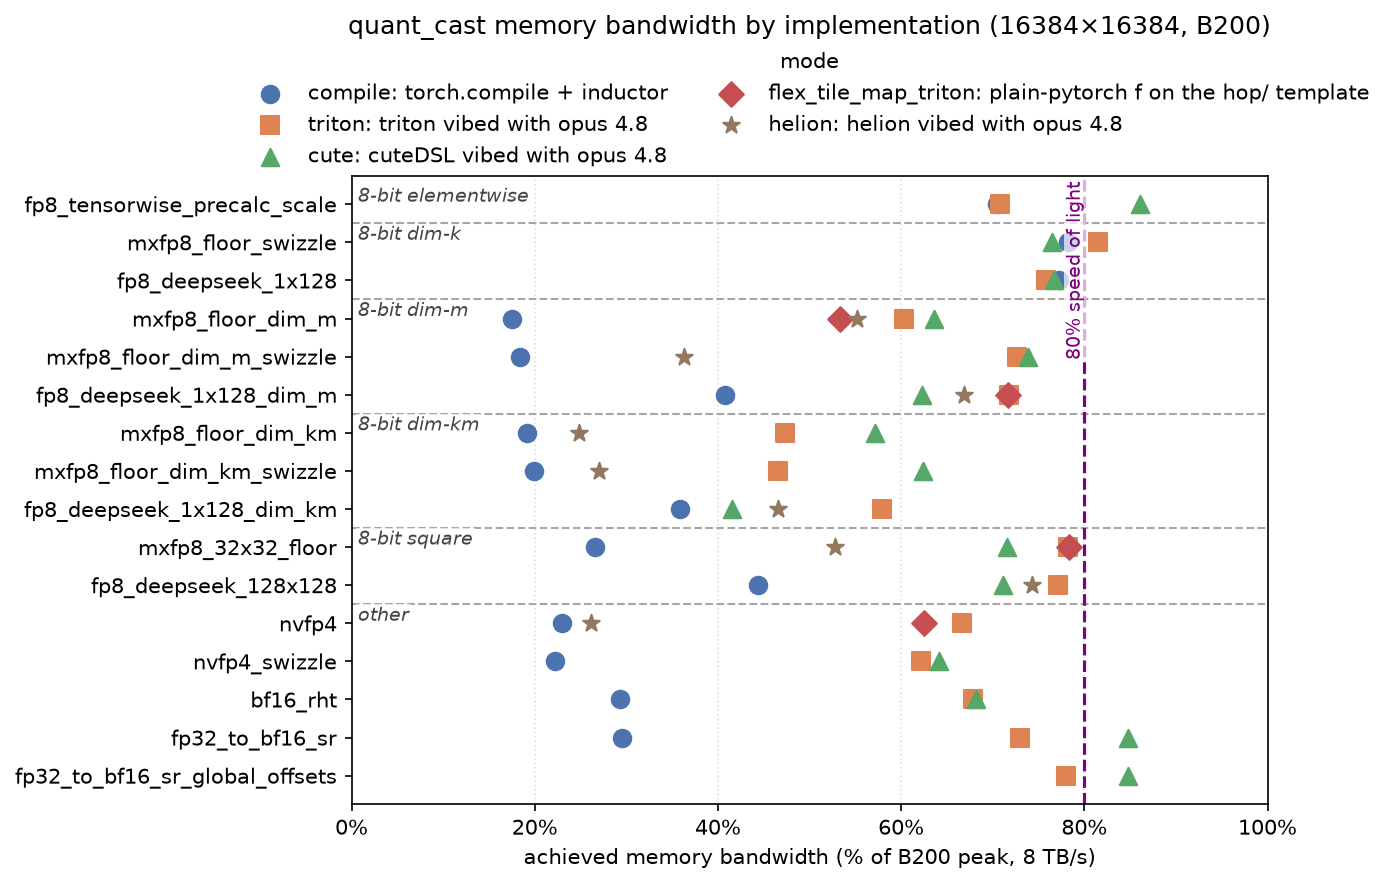
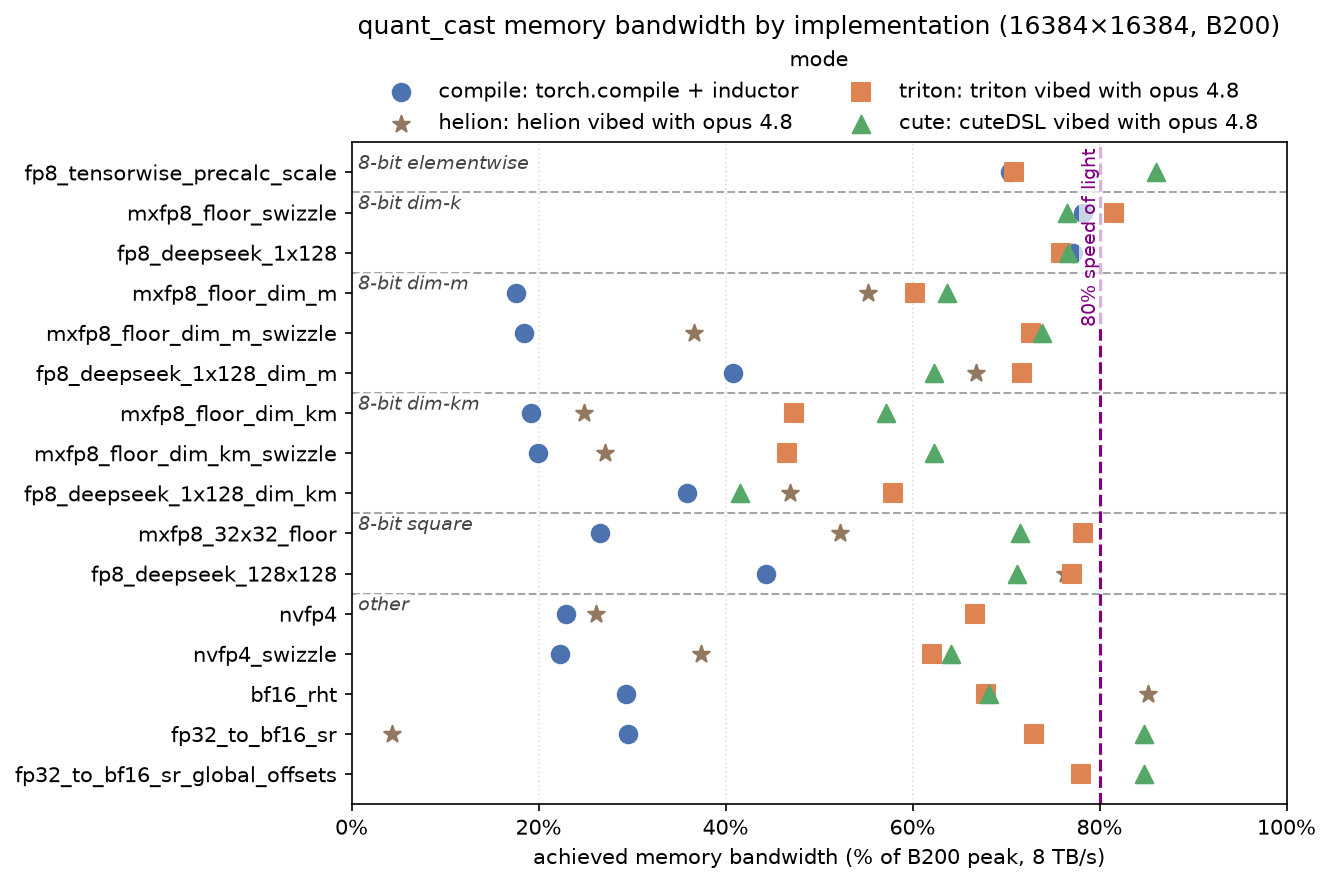
even more helion
Summary:

Test Plan:

diff --git a/quant_cast_bench/quant_cast_helion/recipes.py b/quant_cast_bench/quant_cast_helion/recipes.py
@@ -20,13 +20,16 @@ from quant_cast_bench.quant_cast_gold.recipes import (
     Deepseek1x128DimKmGold,
     Deepseek1x128DimMGold,
     Deepseek128x128Gold,
+    HadamardRht,
     Mxfp832x32FloorGold,
     Mxfp8FloorDimKmGold,
     Mxfp8FloorDimKmSwizzleGold,
     Mxfp8FloorDimMGold,
     Mxfp8FloorDimMSwizzleGold,
     Nvfp4GsGold,
+    Nvfp4GsSwizzleGold,
     QuantCastSingleKernelGold,
+    SrF32ToBf16,
 )
 
 # fp8_e4m3fn representable max; the deepseek scale is amax / fp8_max (see the gold recipe).
@@ -736,6 +739,191 @@ def nvfp4_gs_helion(x, outer_scale, **kwargs):
 NVFP4 = QuantCastHelionRecipe.from_gold(Nvfp4GsGold, helion_fn=nvfp4_gs_helion)
 
 
+# ---------------------------------------------------------------------------
+# nvfp4 (two-level) with the e4m3 INNER scale in the NVIDIA 32x4x4 SWIZZLED block grid. Same two-level
+# cast + fp4-packed qdata as `_nvfp4_gs_kernel` (qdata is byte-identical) -- only the inner scale
+# layout differs: it's scattered straight into the swizzled block grid in-kernel instead of stored
+# plain (M, N//16). Mirrors `nvfp4_gs_swizzle_f` (= nvfp4_gs_f then _to_blocked_4d on the inner scale).
+#
+# Like the mxfp8 swizzle kernels, to make the swizzled store a plain index we tile over the
+# block-count dims [nrb, ncb] and view x with both the M-rows and the 16-block index fully split:
+#   M-rows:   m = 128*RB + 32*a + b       (RB in [0,nrb), a in [0,4), b in [0,32))
+#   N-cols:   n = 64*CB + 16*c + 2*j + k  (CB in [0,ncb), c in [0,4)); each 16-block is (j=8, k=2)
+# so the 16-block index is w = n//16 = 4*CB + c and x_blk is 7D [RB,a,b,CB,c,j,k]. The nvfp4 cast runs
+# per 16-block (reduce (j,k)); the fp4 pack is the same hardware cvt (even k=0 -> low nibble, odd k=1
+# -> high). The swizzle of the inner scale (M, N//16) [m, w] is
+#   blocked[m//128, w//4, m%32, ((m%128)//32)*4 + w%4] = inner[m, w],
+# a pure permute of the reduced inner scale [RB,a,b,CB,c] -> blocked [RB,CB,b,a,c] (the (4,4)->16 merge
+# is a free reshape in the wrapper). block_sizes=[1, 1] pins one 128x64 x-block per program (untiled
+# register dims 4*32*4*8*2 = 8192).
+#
+# Autotuning does NOT work here (inferred, not tried), for two independent reasons:
+#   1. inline-asm autotuner crash: like `_nvfp4_gs_kernel`, this uses `hl.inline_asm_elementwise`
+#      (the _NVFP4_CVT_ASM cvt), and autotune_effort="full" crashes on that HOP -- see the note on the
+#      non-swizzle nvfp4 kernel above (gist linked there). That's why nvfp4 is pinned to "none".
+#   2. swizzle tile-shape overflow: even without the asm crash, the tile-over-block-count structure
+#      means any non-tiny block size makes the register tile block_nrb*block_ncb*8192, which overflows
+#      triton's 1,048,576 per-tensor cap at 16384x16384 (same failure confirmed empirically for
+#      `_mxfp8_floor_dim_km_swizzle_kernel`). The viable search space collapses to ~[1, 1] anyway.
+# ---------------------------------------------------------------------------
+@helion.kernel(
+    config=helion.Config(block_sizes=[1, 1], num_warps=4, num_stages=1),
+    static_shapes=True,
+    ignore_warnings=[helion.exc.TensorOperationInWrapper],
+)
+def _nvfp4_gs_swizzle_kernel(
+    x: torch.Tensor,  # (M, N) bf16 input
+    outer_scale: torch.Tensor,  # (1,) f32 per-tensor outer scale (global amax, host-computed)
+    qdata: torch.Tensor,  # (M, N // 2) uint8, fp4-packed (two e2m1 per byte), mutated in place
+    scale5: torch.Tensor,  # (nrb, ncb, 32, 4, 4) e4m3 inner scale, swizzled, pre (4,4)->16
+) -> None:
+    M, N = x.shape
+    nrb = M // 128  # M 128-row blocks
+    ncb = N // 64   # N 64-col blocks = 4 inner-16-blocks
+    xv = x.view(nrb, 4, 32, ncb, 4, 8, 2)  # [RB, a, b, CB, c, j, k]
+    qv = qdata.view(nrb, 4, 32, ncb, 4, 8)  # (M, N//2) = [RB, a, b, CB, c, j] (8 packed bytes / 16-blk)
+    for tile_rb, tile_cb in hl.tile([nrb, ncb]):
+        outer = hl.load(outer_scale, [0])
+        x_blk = xv[tile_rb, :, :, tile_cb, :, :, :].to(torch.float32)  # (trb,4,32,tcb,4,8,2)
+        amax = torch.amax(torch.amax(torch.abs(x_blk), dim=6), dim=5)  # [RB,a,b,CB,c] over the 16
+        # inner e4m3 block scale relative to the outer scale; round-trip through e4m3 BEFORE using it
+        # in the reciprocal (matches the gold / the non-swizzle kernel -- load-bearing for bit-exact).
+        inner_e4m3 = torch.clamp(
+            (amax / _F4_E2M1_MAX) / outer, _E4M3_EPS, _F8E4M3_MAX
+        ).to(torch.float8_e4m3fn)
+        recip = (1.0 / outer) / inner_e4m3.to(torch.float32)  # [RB,a,b,CB,c]
+        data_scaled = torch.clamp(
+            x_blk * recip[:, :, :, :, :, None, None], -_F4_E2M1_MAX, _F4_E2M1_MAX
+        )  # [RB,a,b,CB,c,j,k]
+        # split the pack pair (k) without strided indexing: mask-and-reduce the size-2 axis.
+        w_odd = hl.arange(2).to(torch.float32)  # [0.0, 1.0]
+        even = torch.sum(data_scaled * (1.0 - w_odd), dim=6)  # [RB,a,b,CB,c,j] -> low nibble ($2)
+        odd = torch.sum(data_scaled * w_odd, dim=6)  # [RB,a,b,CB,c,j] -> high nibble ($1)
+        packed_u16 = hl.inline_asm_elementwise(
+            _NVFP4_CVT_ASM, "=h,r,r", [odd, even],
+            dtype=torch.uint16, is_pure=True, pack=1,
+        )
+        qv[tile_rb, :, :, tile_cb, :, :] = packed_u16.to(torch.uint8)
+        # swizzled inner scale: [RB,a,b,CB,c] -> blocked [RB,CB,b,a,c]
+        scale5[tile_rb, tile_cb, :, :, :] = inner_e4m3.permute(0, 3, 2, 1, 4)
+
+
+def nvfp4_gs_swizzle_helion(x, outer_scale, **kwargs):
+    """nvfp4 two-level cast in Helion with the e4m3 inner scale in the NVIDIA 32x4x4 swizzled block
+    grid: per-16 e4m3 inner scale (relative to the host-computed per-tensor `outer_scale` aux),
+    fp4-packed qdata (M, N//2) + the inner scale scattered directly into the swizzled block grid
+    (nrb, ncb, 32, 16). Matches the gold `nvfp4_gs_swizzle_f`. The (4,4)->16 merge is a free contiguous
+    reshape here. `**kwargs` are accepted and ignored."""
+    assert x.is_contiguous() and x.dim() == 2
+    M, N = x.shape
+    assert M % 128 == 0 and N % 64 == 0, (
+        f"nvfp4 swizzle requires M divisible by 128 and N by 64, got {(M, N)}"
+    )
+    nrb, ncb = M // 128, N // 64
+    qdata = torch.empty((M, N // 2), dtype=torch.uint8, device=x.device)
+    scale5 = torch.empty((nrb, ncb, 32, 4, 4), dtype=torch.float8_e4m3fn, device=x.device)
+    _nvfp4_gs_swizzle_kernel(x, outer_scale.reshape(1).to(torch.float32), qdata, scale5)
+    inner_swizzled = scale5.reshape(nrb, ncb, 32, 16)
+    return qdata.view(torch.float4_e2m1fn_x2), inner_swizzled
+
+
+NVFP4_SWIZZLE = QuantCastHelionRecipe.from_gold(
+    Nvfp4GsSwizzleGold, helion_fn=nvfp4_gs_swizzle_helion
+)
+
+
+# ---------------------------------------------------------------------------
+# bf16 16x16 randomized Hadamard transform (RHT): bf16 in, bf16 out, NO scale (a 1-tuple output).
+# Mirrors hadamard_rht_f -- out = (x.reshape(..., 16) @ rht).reshape(...). The RHT matrix is a (16,16)
+# bf16 aux input (built on the host). Like the triton kernel, flatten the whole tensor to (n_groups,
+# 16) groups of 16 and give each program a (BLOCK_G, 16) tile -> a batch of (BLOCK_G, 16) @ (16, 16)
+# matmuls. Compute in fp32 (upcasting the bf16 inputs is exact, so an fp32 matmul reproduces torch's
+# bf16 gemm with fp32 accumulation) then cast back to bf16. It's a bandwidth-bound elementwise-shaped
+# op (read N, write N; the K=16 dot is tiny), but autotune_effort="none"'s default config picks a tiny
+# block (block_sizes=[32] -> 512 elems/program) and only reaches ~40% peak. A swept block matters here:
+# pin block_sizes=[512] (matching the triton kernel's BLOCK_G=512), num_warps=8 -> ~64% peak. Larger
+# blocks (>=1024 groups) overflow tensor memory since the (bg,16)@(16,16) matmul lowers to tl.dot/tmem.
+# ---------------------------------------------------------------------------
+@helion.kernel(
+    config=helion.Config(atomic_indexing=[], block_sizes=[128], indexing=['pointer', 'pointer', 'pointer'], load_eviction_policies=['first', ''], num_stages=3, num_warps=2, pid_type='flat', range_flattens=[None], range_multi_buffers=[None], range_num_stages=[], range_unroll_factors=[0], range_warp_specializes=[None]), 
+    static_shapes=True,
+    ignore_warnings=[helion.exc.TensorOperationInWrapper],
+)
+def _rht_kernel(
+    x: torch.Tensor,  # (n_groups, 16) bf16 input (the (M, N) tensor flattened to 16-element groups)
+    rht: torch.Tensor,  # (16, 16) bf16 RHT matrix
+    out: torch.Tensor,  # (n_groups, 16) bf16 output, mutated in place
+) -> None:
+    n_groups, _ = x.shape
+    for tile_g in hl.tile(n_groups):
+        x_blk = x[tile_g, :].to(torch.float32)  # (bg, 16)
+        r = rht[:, :].to(torch.float32)  # (16, 16)
+        out[tile_g, :] = torch.matmul(x_blk, r).to(torch.bfloat16)  # (bg, 16), fp32 accum -> bf16
+
+
+def rht_helion(x, rht, **kwargs):
+    """16x16 randomized Hadamard transform along the last dim in Helion (mirrors `hadamard_rht_f`):
+    bf16 in, bf16 out, no scale. `rht` is the (16,16) RHT matrix (host-built aux). Returns a 1-tuple
+    `(out,)`. `**kwargs` are accepted and ignored (the kernel owns its tiling)."""
+    assert x.is_contiguous() and x.dim() == 2
+    M, N = x.shape
+    assert N % 16 == 0, f"bf16_rht requires N divisible by 16, got N={N}"
+    n_groups = (M * N) // 16
+    out = torch.empty_like(x)
+    _rht_kernel(x.view(n_groups, 16), rht.contiguous(), out.view(n_groups, 16))
+    return (out,)
+
+
+BF16_RHT = QuantCastHelionRecipe.from_gold(HadamardRht, helion_fn=rht_helion)
+
+
+# ---------------------------------------------------------------------------
+# Stochastic-rounding fp32 -> bf16 (mirrors sr_bf16_f). SR add-then-truncate: dither the 16 mantissa
+# bits fp32->bf16 drops with a uniform 16-bit value, then mask them off. bf16 shares fp32's exponent
+# so there's no rebias/scale/packing -- just the dither. Randomness comes from Helion's own
+# counter-based Philox (`hl.rand`, offsets derived from the flat tile index), so the draws don't
+# match the torch reference bit-for-bit -- only the SR *property* (unbiased, lands on the two
+# bracketing bf16 grid points) is well-defined, and that's what the test's correctness_fn checks for
+# the *_sr recipes. Elementwise + bandwidth-bound (read fp32, write bf16); autotune_effort="none" ->
+# default config, no search (fast to iterate).
+# ---------------------------------------------------------------------------
+@helion.kernel(
+    config=helion.Config(atomic_indexing=[], block_sizes=[2048], indexing=['tensor_descriptor', 'tensor_descriptor'], load_eviction_policies=[''], maxnreg=128, num_sm_multiplier=8, num_stages=2, num_warps=16, pid_type='persistent_interleaved', range_flattens=[False], range_multi_buffers=[None], range_unroll_factors=[0], range_warp_specializes=[True]), 
+    static_shapes=True,
+    ignore_warnings=[helion.exc.TensorOperationInWrapper],
+)
+def _sr_bf16_kernel(
+    x: torch.Tensor,  # (n,) fp32 input, flattened
+    out: torch.Tensor,  # (n,) bf16 output, mutated in place
+    seed: int,  # Philox seed (first 32 bits of the key)
+) -> None:
+    n, = x.shape
+    for tile in hl.tile(n):
+        xf = x[tile]
+        u = hl.rand([tile], seed=seed)  # uniform [0, 1) per element, distinct offset per flat index
+        rand16 = (u * 65536.0).to(torch.int32)  # uniform 16-bit dither in [0, 2**16)
+        xi = xf.view(torch.int32) + rand16  # bitcast fp32->int32, add the dither...
+        xi = xi & -65536  # ...then truncate the low 16 mantissa bits (-65536 == 0xFFFF0000)
+        out[tile] = xi.view(torch.float32).to(torch.bfloat16)  # exact: low 16 bits are zero
+
+
+def sr_bf16_helion(x, key, **kwargs):
+    """fp32 -> bf16 stochastic rounding in Helion (mirrors `sr_bf16_f`). `key` is a torch Philox key
+    tensor; its first 32-bit word seeds `hl.rand`. SR is unbiased -- a value between two bf16 grid
+    points rounds up with probability (x-lo)/(hi-lo). Returns a 1-tuple `(out,)`. `**kwargs` accepted
+    and ignored (the kernel owns its tiling)."""
+    assert x.dtype == torch.float32, f"SR bf16 expects fp32 input, got {x.dtype}"
+    assert x.is_contiguous()
+    n = x.numel()
+    seed = int(key.reshape(-1)[0].item()) & 0x7FFFFFFF  # first word of the key as a Philox seed
+    out = torch.empty_like(x, dtype=torch.bfloat16)
+    _sr_bf16_kernel(x.view(n), out.view(n), seed)
+    return (out,)
+
+
+FP32_TO_BF16_SR = QuantCastHelionRecipe.from_gold(SrF32ToBf16, helion_fn=sr_bf16_helion)
+
+
 # Order mirrors quant_cast_gold.ALL_RECIPES / quant_cast_triton.ALL_RECIPES (only the recipes with
 # a Helion impl are listed; more will be added as they're ported).
 ALL_RECIPES = [
@@ -748,4 +936,7 @@ ALL_RECIPES = [
     ("mxfp8_32x32_floor", MXFP8_32X32_FLOOR),
     ("fp8_deepseek_128x128", FP8_DEEPSEEK_128X128),
     ("nvfp4", NVFP4),
+    ("nvfp4_swizzle", NVFP4_SWIZZLE),
+    ("bf16_rht", BF16_RHT),
+    ("fp32_to_bf16_sr", FP32_TO_BF16_SR),
 ]

diff --git a/benchmarks/plot_bench.py b/benchmarks/plot_bench.py
@@ -26,8 +26,10 @@ matplotlib.use("Agg")  # headless: write a PNG, never open a window
 import matplotlib.pyplot as plt  # noqa: E402
 from matplotlib.ticker import PercentFormatter  # noqa: E402
 
-# default series order (also the legend order)
-_MODES = ["compile", "triton", "cute", "flex_tile_map_triton", "helion"]
+# default series order (also the legend order). flex_tile_map_triton is kept in the CSV and the
+# _COLORS/_MARKERS/_LABELS maps below (so `--modes ...,flex_tile_map_triton` still works) but is
+# omitted from the main chart.
+_MODES = ["compile", "helion", "triton", "cute"]
 _COLORS = {
     "compile": "#4C72B0",
     "triton": "#DD8452",

diff --git a/benchmarks/README.md b/benchmarks/README.md
@@ -380,16 +380,19 @@ baseline, not a fully-tuned comparison to the compile/triton/cute numbers above.
 shape: (16384, 16384)  mode: helion
 recipe                        gpu_time_ms    gbps    pct_peak  perf_description
 --------------------------  -------------  ------  ----------  --------------------------------------------------------
-relu (baseline)                    0.1792  5992.8       74.9%
+relu (baseline)                    0.1792  5993.4       74.9%
 fp8_deepseek_1x128_dim_m           0.1522  5344.8       66.8%  (128,1) block, t-contig
-mxfp8_floor_dim_m                  0.1843  4415.3       55.2%  (32,1) block, t-contig
-mxfp8_floor_dim_m_swizzle          0.2804  2902.1       36.3%  (32,1) block, t-contig, swizzle
-mxfp8_floor_dim_km                 0.5495  1984.6       24.8%  (1,32) dim-k + (32,1) dim-m, one pass, t-contig
-mxfp8_floor_dim_km_swizzle         0.5046    2161       27.0%  (1,32) dim-k + (32,1) dim-m, one pass, t-contig, swizzle
-fp8_deepseek_1x128_dim_km           0.293  3721.3       46.5%  (1,128) dim-k + (128,1) dim-m, one pass, t-contig
-mxfp8_32x32_floor                  0.1909  4219.6       52.8%  (32,32) block
-fp8_deepseek_128x128               0.1355  5944.9       74.3%  (128,128) block
-nvfp4                              0.3283    2095       26.2%  (1,16) block, fp4 qdata, no swizzle
+mxfp8_floor_dim_m                  0.1842  4417.7       55.2%  (32,1) block, t-contig
+mxfp8_floor_dim_m_swizzle          0.2773  2933.9       36.7%  (32,1) block, t-contig, swizzle
+mxfp8_floor_dim_km                  0.548  1989.9       24.9%  (1,32) dim-k + (32,1) dim-m, one pass, t-contig
+mxfp8_floor_dim_km_swizzle         0.5026  2169.8       27.1%  (1,32) dim-k + (32,1) dim-m, one pass, t-contig, swizzle
+fp8_deepseek_1x128_dim_km          0.2908  3750.5       46.9%  (1,128) dim-k + (128,1) dim-m, one pass, t-contig
+mxfp8_32x32_floor                  0.1927  4179.6       52.2%  (32,32) block
+fp8_deepseek_128x128               0.1319  6103.9       76.3%  (128,128) block
+nvfp4                              0.3288    2092       26.1%  (1,16) block, fp4 qdata, no swizzle
+nvfp4_swizzle                        0.23  2990.4       37.4%  (1,16) block, fp4 qdata, swizzle
+bf16_rht                           0.1575  6818.8       85.2%  elementwise RHT
+fp32_to_bf16_sr                    4.6893   343.5        4.3%  elementwise SR, hl.rand (tile-local)
 ```
 
 * `fp8_deepseek_1x128_dim_m` (66.8%, i.e. ~89% of this run's relu ceiling) and `mxfp8_floor_dim_m`
@@ -400,7 +403,7 @@ nvfp4                              0.3283    2095       26.2%  (1,16) block, fp4
   128-row reduction persistent via `reduction_loops=[None]` so `x` is loaded once, not 3×; the
   autotuner's timing was too noisy to trust here). They land in the same ballpark as their bespoke
   `--mode triton` counterparts once the depressed baseline is accounted for.
-* `mxfp8_floor_dim_m_swizzle` (36.3%) is `mxfp8_floor_dim_m` with the e8m0 scale scattered **directly
+* `mxfp8_floor_dim_m_swizzle` (36.7%) is `mxfp8_floor_dim_m` with the e8m0 scale scattered **directly
   into the NVIDIA 32×4×4 swizzled block grid in-kernel** (not stored plain then swizzled in a
   wrapper). To make the swizzled store a plain index, it tiles over the *block-count* dims so the
   tile indices are the block ordinals, which forces the within-block 32/128 axes into 5D register
@@ -409,7 +412,7 @@ nvfp4                              0.3283    2095       26.2%  (1,16) block, fp4
   pinned to `block_sizes=[1, 1]` (one 128×128 block/program). That correctness-first tile is why the
   bandwidth trails the plain dim-M kernel and the triton/cute swizzle versions (72.7% / 73.9%);
   raising the block sizes is the perf follow-up.
-* `mxfp8_floor_dim_km` (24.8%) does **both** mxfp8-floor reductions in one pass over `x` and emits four
+* `mxfp8_floor_dim_km` (24.9%) does **both** mxfp8-floor reductions in one pass over `x` and emits four
   outputs — the dim-K pair `(M, N)` / `(M, N//32)` in the natural frame *and* the dim-M pair `(N, M)` /
   `(N, M//32)` transposed. It reuses the 32×32 block-grid view `(rb, 32, cb, 32)` and takes both
   reductions off the one loaded block (reduce the trailing 32 for dim-K, the leading 32 for dim-M),
@@ -418,36 +421,60 @@ nvfp4                              0.3283    2095       26.2%  (1,16) block, fp4
   compile at 512² in 10 min and would overflow the 1,048,576 per-tensor cap at this shape. The low
   bandwidth is expected — it's one read of `x` but ~2× the output writes (four tensors) on the
   correctness-first tile.
-* `mxfp8_floor_dim_km_swizzle` (27.0%) is `mxfp8_floor_dim_km` with **both** e8m0 scales scattered
+* `mxfp8_floor_dim_km_swizzle` (27.1%) is `mxfp8_floor_dim_km` with **both** e8m0 scales scattered
   directly into the NVIDIA 32×4×4 swizzled block grid in-kernel (qdata is byte-identical). To make
   both swizzled stores plain 5D indices it tiles over the 128×128 block grid and views `x` with both
   within-128 axes fully split (M-rows into `(c4, w32)`, N-cols into `(a, b)`), so one 6D loaded block
   feeds both reductions and both scale stores via pure permutes — no in-kernel reshape across a tiled
   axis (unlike the dim-M-only swizzle kernel). Same `block_sizes=[1, 1]` pin / autotune-none overflow
   as the other dim-km kernels. It's actually a hair *faster* than the plain `mxfp8_floor_dim_km`
-  (24.8%), consistent with the swizzled scale store beating the plain strided one seen elsewhere.
-* `fp8_deepseek_1x128_dim_km` (46.5%) is the deepseek analog — same one-pass four-output structure as
+  (24.9%), consistent with the swizzled scale store beating the plain strided one seen elsewhere.
+* `fp8_deepseek_1x128_dim_km` (46.9%) is the deepseek analog — same one-pass four-output structure as
   `mxfp8_floor_dim_km` but 128×128 blocks with an fp32 `amax/448` reciprocal scale instead of e8m0
-  bit-math. It's ~2× the bandwidth of the mxfp8 dim-km (24.8%) because 128-blocks write 4× fewer scale
+  bit-math. It's ~2× the bandwidth of the mxfp8 dim-km (24.9%) because 128-blocks write 4× fewer scale
   values than 32-blocks (and in larger contiguous chunks). Pinned `block_sizes=[1, 1]` for the same
   reason as the others.
-* `mxfp8_32x32_floor` (52.8%) is deliberately pinned to a **tiny `block_sizes=[1, 1]`** (one 32×32
+* `mxfp8_32x32_floor` (52.2%) is deliberately pinned to a **tiny `block_sizes=[1, 1]`** (one 32×32
   block per program). The kernel views `x` as 4D `(rb, 32, cb, 32)` and tiles only `[rb, cb]`, so the
   block sizes multiply the untiled 32×32 register tile — the default heuristic's `[16, 16]`
   materializes a 1 MB fp32 tile per program that takes ptxas ~18 s to compile cold. `[1, 1]` keeps it
   at 4 KB → ~0.5 s cold compile. That fast-debug tile is the reason the bandwidth is low here (raise
   `block_sizes` or switch to `autotune_effort="full"` if this kernel's perf becomes the point).
-* `fp8_deepseek_128x128` (74.3%) is the deepseek square-block analog of `mxfp8_32x32_floor` — same
+* `fp8_deepseek_128x128` (76.3%) is the deepseek square-block analog of `mxfp8_32x32_floor` — same
   in-place `(rb, 128, cb, 128)` block view but 128×128 blocks with an fp32 `amax/448` reciprocal scale.
-  It lands right at the relu ceiling (74.9%): 128×128 blocks write the fewest scale values of any recipe
-  here (one fp32 per 16384 elements) and there's no transpose, so it's essentially pinned to the
-  input-read + qdata-write bandwidth floor even on the same correctness-first `block_sizes=[1, 1]`.
-* `nvfp4` (26.2%) is the two-level cast (per-tensor outer scale × per-16-block e4m3 inner scale,
+  It sits right at the relu ceiling (74.9%, and edges past it run-to-run): 128×128 blocks write the
+  fewest scale values of any recipe here (one fp32 per 16384 elements) and there's no transpose, so
+  it's essentially pinned to the input-read + qdata-write bandwidth floor even on the same
+  correctness-first `block_sizes=[1, 1]`.
+* `nvfp4` (26.1%) is the two-level cast (per-tensor outer scale × per-16-block e4m3 inner scale,
   fp4-packed qdata) on Helion's default `autotune_effort="none"` config. The fp4 encode+pack uses the
   **hardware `cvt.rn.satfinite.e2m1x2.f32` PTX**, emitted via `hl.inline_asm_elementwise` (Helion's
   own inline-asm HOP — the gold's Inductor `inline_asm_...` is unreachable from a Helion kernel, and
   the native `.to(torch.float4_e2m1fn_x2)` cast mis-lowers). Bit-exact vs gold but un-tuned; the low
   bandwidth is the default config plus the extra even/odd split work, not the encode itself.
+* `nvfp4_swizzle` (37.4%) is `nvfp4` with the per-16 e4m3 inner scale scattered **directly into the
+  NVIDIA 32×4×4 swizzled block grid in-kernel** (qdata byte-identical). Like the mxfp8 swizzle kernels
+  it tiles over the block-count dims and views `x` with the within-128/64 axes fully split (a 7D block),
+  so the fp4 encode, the even/odd pack, and the swizzled scale store are all pure permutes on one loaded
+  block. It's ~1.4× the plain `nvfp4` (26.1%) — the swizzled scale store beats the plain strided one,
+  same effect seen in the mxfp8 dim-km pair. Pinned `block_sizes=[1, 1]`; `autotune_effort="none"` is
+  *not* usable here for two reasons (the inline-asm autotuner crash `nvfp4` also hits, and the swizzle
+  tile-shape overflow the other swizzle kernels hit).
+* `bf16_rht` (85.2%, i.e. above this run's relu ceiling) is the 16×16 randomized Hadamard transform —
+  bf16 in/out, no scale. It flattens `(M, N)` to `(n_groups, 16)` and gives each program a
+  `(BLOCK_G, 16)` tile, so it's a batch of `(BLOCK_G, 16) @ (16, 16)` matmuls; the matmul is done in
+  fp32 (upcasting the bf16 inputs is exact, so fp32 accumulation reproduces torch's bf16 gemm) and cast
+  back. It's bandwidth-bound (read + write bf16, the K=16 dot is tiny). `autotune_effort="none"` picks
+  too small a block (`block_sizes=[32]`, ~40% peak); a pinned wider block matching the triton kernel's
+  `BLOCK_G=512` lifts it to the top of the table (blocks ≥1024 groups overflow tensor memory since the
+  matmul lowers to `tl.dot`/tmem).
+* `fp32_to_bf16_sr` (4.3%) is the stochastic-rounding fp32→bf16 dither (add a uniform 16-bit value to
+  the mantissa, then truncate), with the uniform drawn from Helion's own counter-based Philox
+  (`hl.rand`, offsets from the flat tile index) — so it never materializes a random tensor the way the
+  `compile` mode does, and it's bit-unrelated to the torch reference (only the SR *property* — unbiased,
+  lands on the two bracketing bf16 grid points — is checked). It runs on `autotune_effort="none"`; the
+  very low bandwidth is that default config being a poor fit for this kernel (a wider pinned block is
+  the perf follow-up), not the RNG itself.
 
 ## Known issues
 
